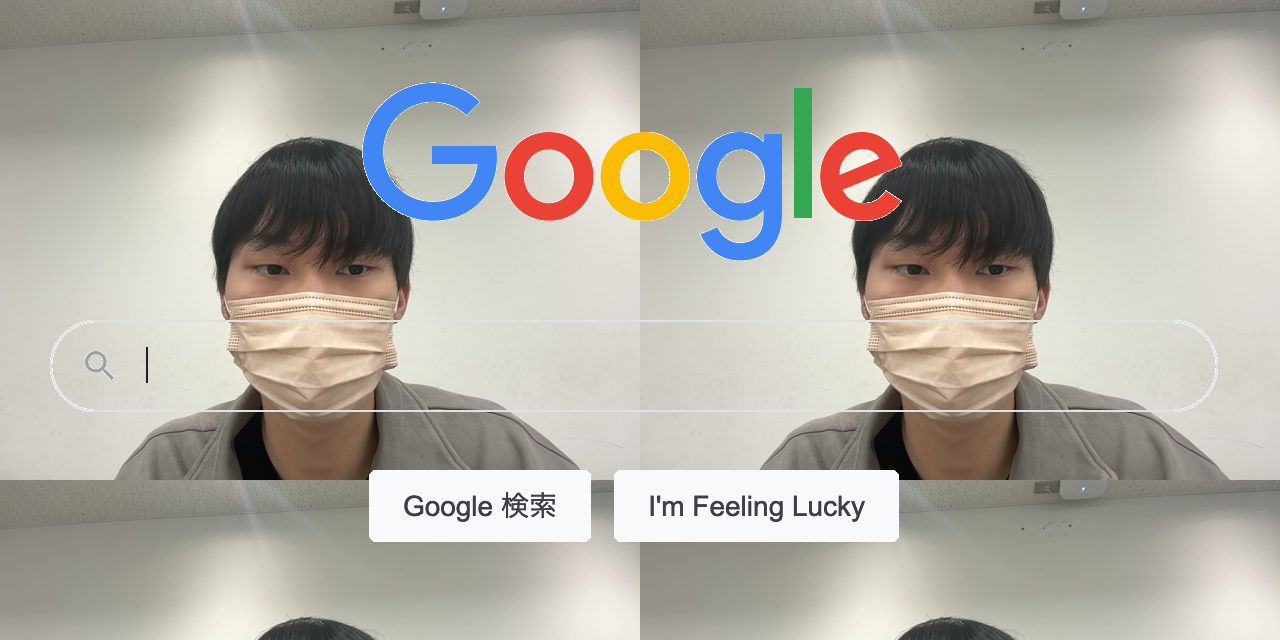
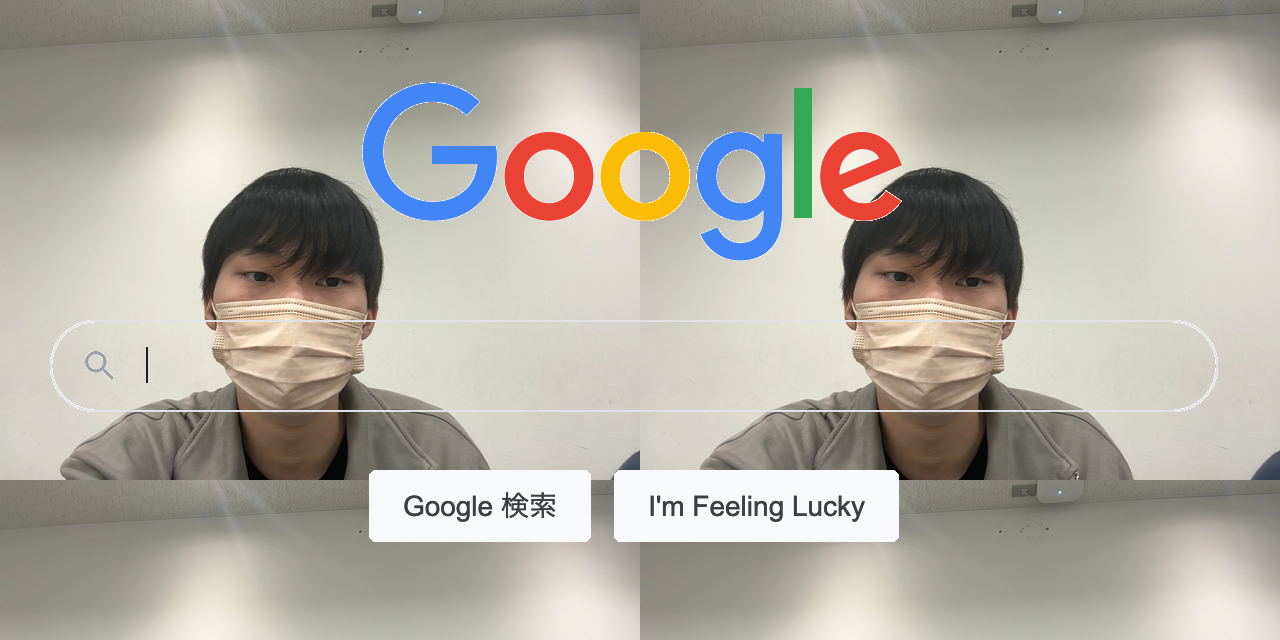
a

diff --git a/src/lecture05_01.py b/src/lecture05_01.py
@@ -1,33 +1,50 @@
 import numpy as np
 import cv2
-from my_module.K21999.lecture05_camera_image_capture import MyVideoCapture
+from my_module.K24072.lecture05_camera_image_capture import MyVideoCapture  # ← 自分の学籍番号に合わせて
 
 def lecture05_01():
-
-    # カメラキャプチャ実行
+    #　カメラキャプチャ実行
     app = MyVideoCapture()
-    app.run()
+    app.run()  # qキーで撮影終了
 
-    # 画像をローカル変数に保存
-    google_img : cv2.Mat = cv2.imread('images/google.png')
-    capture_img : cv2.Mat = cv2.imread('images/camera_capture.png') # 動作テスト用なので提出時にこの行を消すこと
-    # capture_img : cv2.Mat = "implement me"
+    #　画像読み込み
+    google_img: cv2.Mat = cv2.imread('images/google.png')
+    capture_img : cv2.Mat = cv2.imread('output_images/camera_capture.png')
 
-    g_hight, g_width, g_channel = google_img.shape
-    c_hight, c_width, c_channel = capture_img.shape
-    print(google_img.shape)
-    print(capture_img.shape)
+    # キャプチャ画像がNoneならエラー表示して終了
+    if capture_img is None:
+        print("エラー: カメラ画像が取得できませんでした。run() 内で 'q' を押しましたか？")
+        return
 
-    for x in range(g_width):
-        for y in range(g_hight):
-            g, b, r = google_img[y, x]
-            # もし白色(255,255,255)だったら置き換える
-            if (b, g, r) == (255, 255, 255):
-                new_x = x % c_width
-                new_y = y % c_hight
-                google_img[y, x] = capture_img[new_y, new_x]
-                #implement me
+    g_height, g_width, _ = google_img.shape
+    c_height, c_width, _ = capture_img.shape
 
-    # 書き込み処理
-    app.write_img('output_images/lecture05_01_K24072.png')
+    print("google.png :", google_img.shape)
+    print("capture_img:", capture_img.shape)
 
+    # キャプチャ画像を敷き詰める
+    tiled_img = np.zeros_like(google_img)
+    for y in range(0, g_height, c_height):
+        for x in range(0, g_width, c_width):
+            h_end = min(y + c_height, g_height)
+            w_end = min(x + c_width, g_width)
+            tiled_img[y:h_end, x:w_end] = capture_img[0:h_end - y, 0:w_end - x]
+
+    # 白色部分を置換
+    white_mask = np.all(google_img == [255, 255, 255], axis=2)
+    result_img = google_img.copy()
+    result_img[white_mask] = tiled_img[white_mask]
+
+    # 出力フォルダ作成
+    try:
+        __import__('pathlib').Path('output_images').mkdir()
+    except:
+        pass
+
+    # --- 画像保存 ---
+    output_path = 'output_images/lecture05_01_K24072.png'
+    cv2.imwrite(output_path, result_img)
+    print(f"保存完了: {output_path}")
+
+if __name__ == "__main__":
+    lecture05_01()
